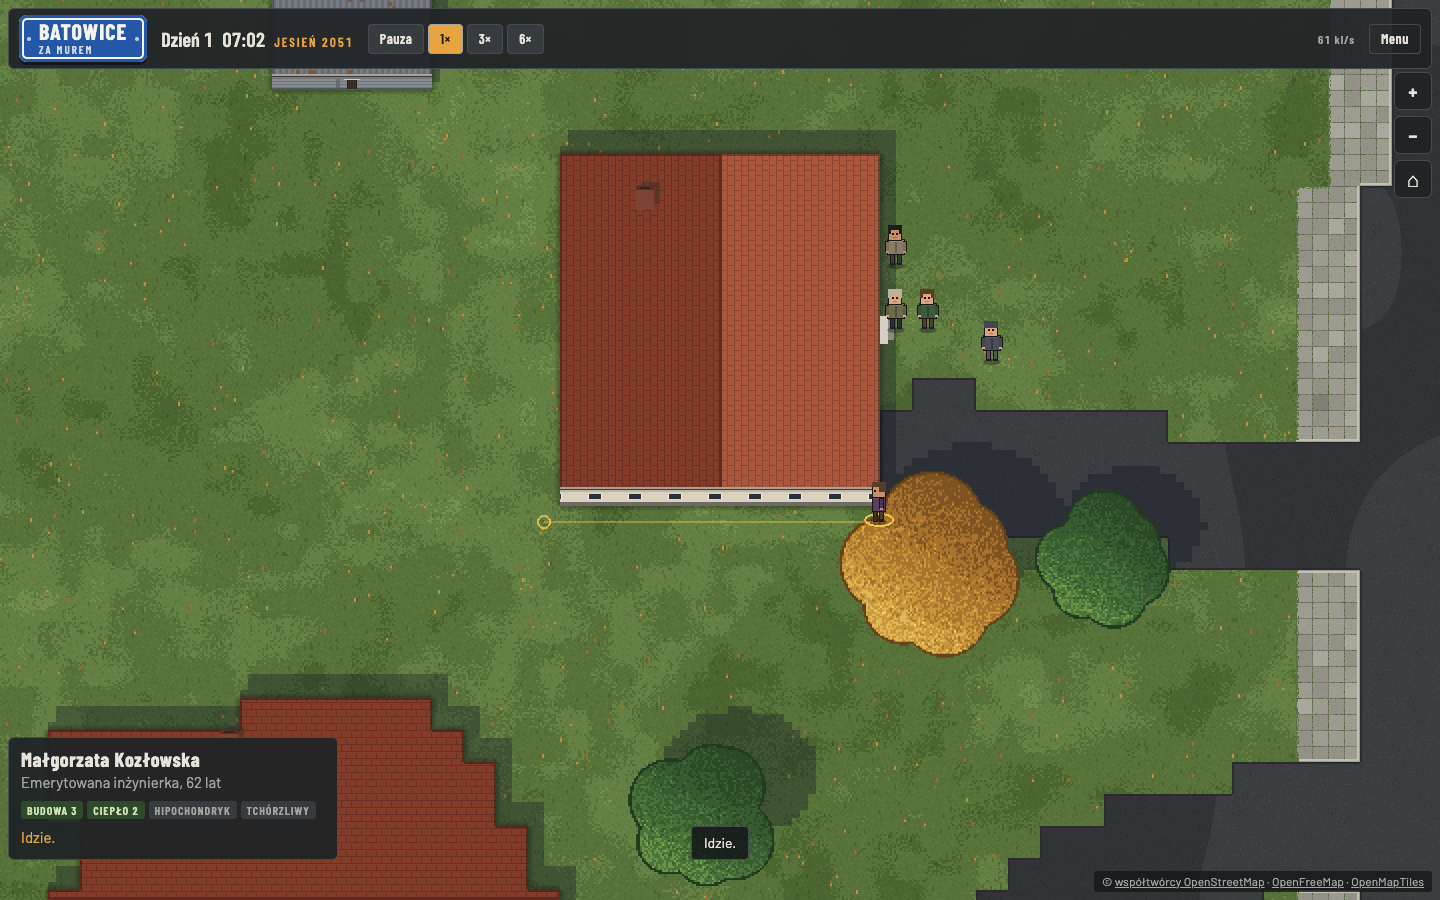
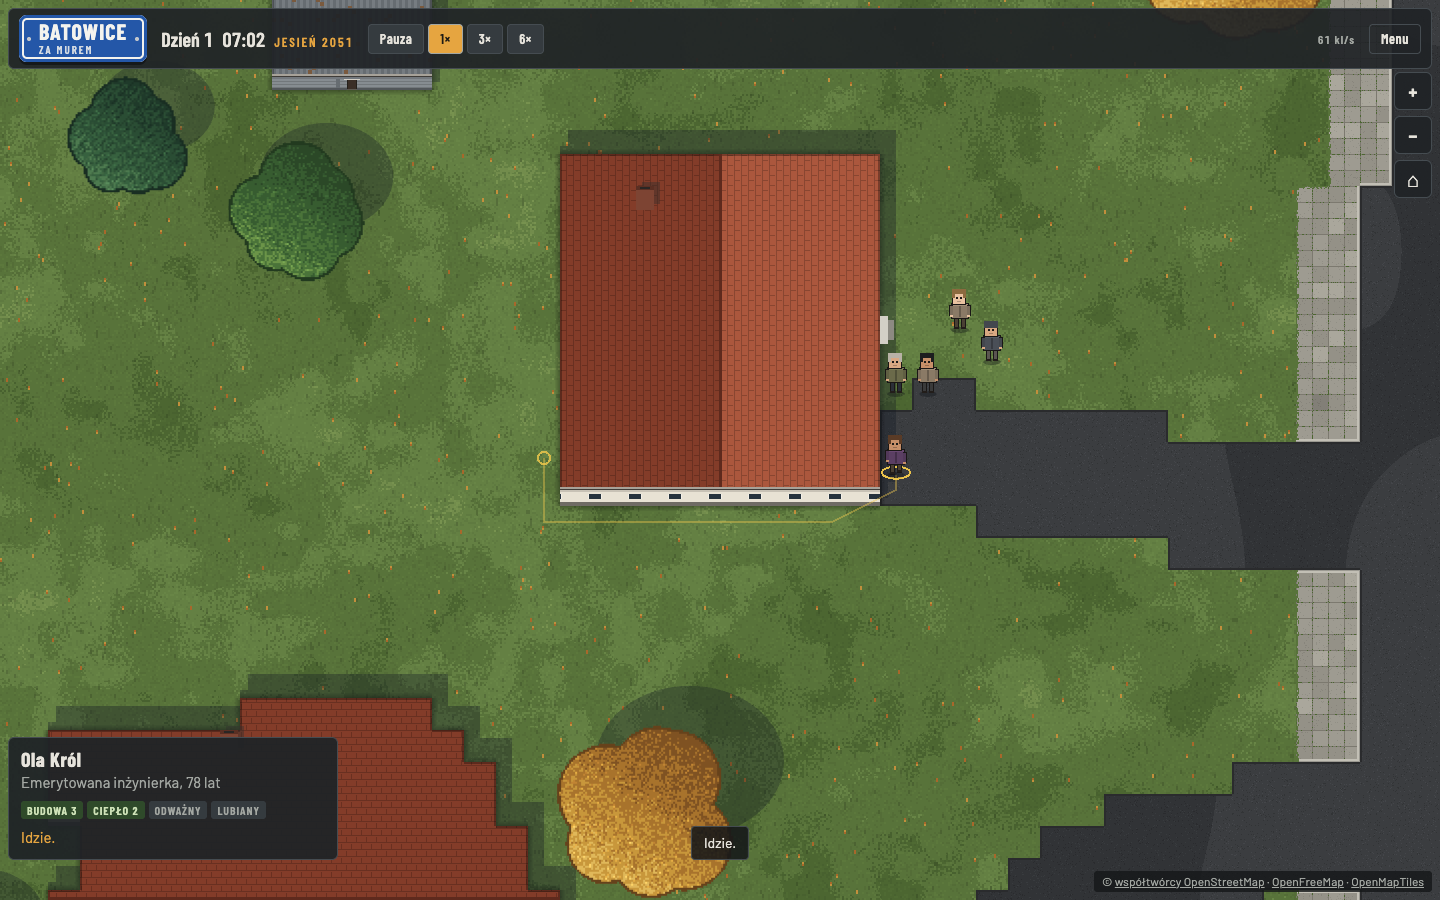
Miękkie cienie drzew zamiast schodków z maski 8 px

diff --git a/src/render/art/chunkArt.ts b/src/render/art/chunkArt.ts
@@ -472,8 +472,21 @@ export function drawChunk(sc: Scene, cx: number, cy: number, s: number, canvas: 
       }
     }
   }
+  // cienie drzew: miękkie elipsy w jednej ścieżce, żeby nakładające się nie ciemniały podwójnie
+  const trees = sc.treesBy[cy * sc.chunks + cx];
+  if (trees.length) {
+    ctx.beginPath();
+    for (const t of trees) {
+      const sx = (t.x + t.r * 0.45) * TILE;
+      const sy = (t.y - 1.2 - t.r * 0.55) * TILE;
+      ctx.moveTo(sx + t.r * TILE * 0.95, sy);
+      ctx.ellipse(sx, sy, t.r * TILE * 0.95, t.r * TILE * 0.76, 0, 0, Math.PI * 2);
+    }
+    ctx.fillStyle = 'rgba(16,22,34,0.30)';
+    ctx.fill();
+  }
   // drzewa od tyłu do przodu
-  for (const t of sc.treesBy[cy * sc.chunks + cx]) {
+  for (const t of trees) {
     const sp = treeSprite(t);
     ctx.drawImage(sp.canvas, t.x * TILE - sp.ax, t.y * TILE - sp.ay);
   }

diff --git a/src/render/art/scene.ts b/src/render/art/scene.ts
@@ -181,19 +181,6 @@ export function buildScene(w: World): Scene {
       }
     }
   }
-  // drzewa rzucają okrągły cień
-  for (const t of w.trees) {
-    const cx = (t.x + t.r * 0.45) * SUB;
-    const cy = (t.y - 1.2 - t.r * 0.55) * SUB;
-    const rr = t.r * SUB * 0.95;
-    for (let y = Math.floor(cy - rr); y <= Math.ceil(cy + rr); y++)
-      for (let x = Math.floor(cx - rr); x <= Math.ceil(cx + rr); x++) {
-        if (x < 0 || y < 0 || x >= S || y >= S) continue;
-        const dx = (x + 0.5 - cx) / rr;
-        const dy = (y + 0.5 - cy) / (rr * 0.8);
-        if (dx * dx + dy * dy <= 1) shadow[y * S + x] = 1;
-      }
-  }
   // cień nie leży na dachach
   for (let i = 0; i < N; i++) {
     if (w.terr[i] !== T.BUILDING) continue;

diff --git a/docs/POSTEP.md b/docs/POSTEP.md
@@ -72,6 +72,5 @@ Liczby:
 - Wersja 0.2 do porównań: dopisać `<!doctype html>` i `<meta charset="utf-8">`, żeby działała poza artefaktem.
 - Falowiec na Przymorzu ma około 860 m, w kwadracie 384 m widać tylko jego część. Rozważyć przesunięcie kwadratu tak, żeby siedziba mieściła się cała.
 - Automatyczne chodniki na wsi wyglądają miejsko. Pomijać je tam, gdzie przeważają domy.
-- Cienie drzew na asfalcie są schodkowe (oczka 8 px), zmiękczyć.
 - Późna gra w 0.3 jest za łatwa (bot w 45. dniu ma 582 jedzenia i zaufanie 100). W M3 celem balansu jest pierwsza zima i dalsze wyzwania.
 - Ursynów: siedziba „Lanciego 10G” to duży budynek o ukośnej ścianie, która wychodzi schodkami. Rysować ukośne ściany z wielokąta.
